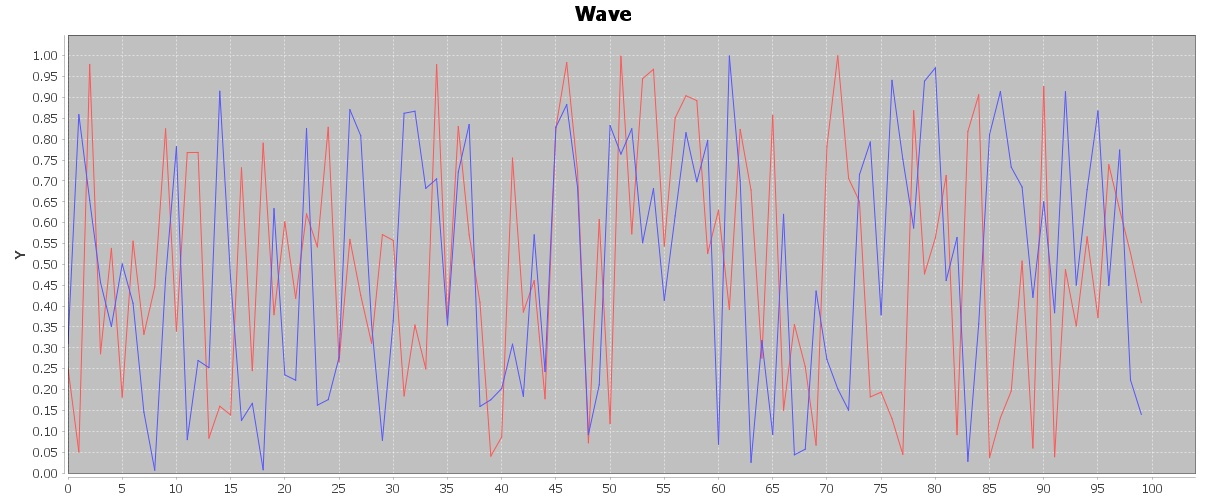
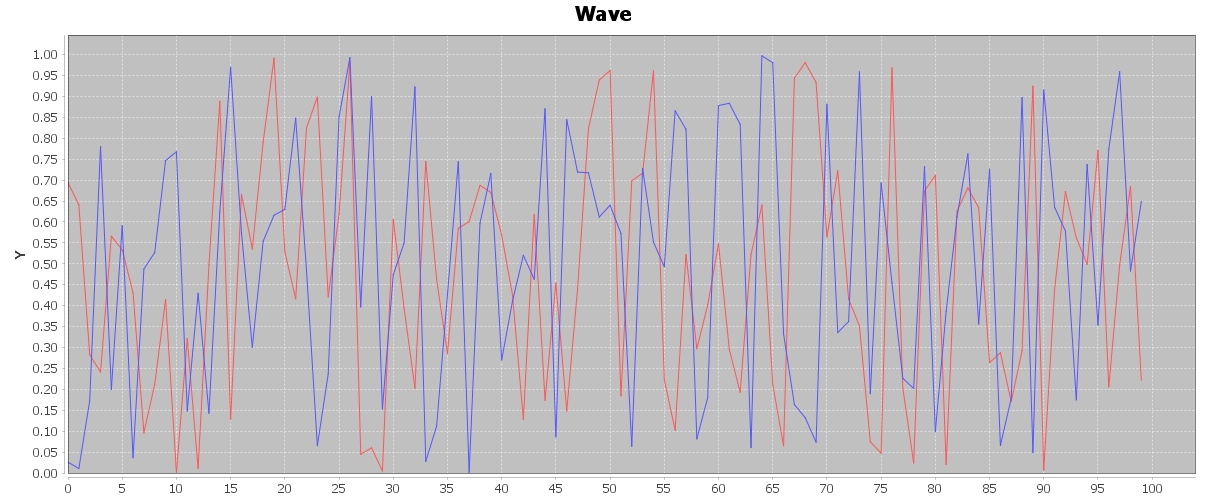
chart

diff --git a/src/processing/frame/Volume.java b/src/processing/frame/Volume.java
@@ -47,11 +47,13 @@ public class Volume {
 
 	public static void main(String args[]) {
 		System.out.println("test volume");
-		String filename = "dataset\\sample\\2.wav";
+		String filename = "dataset\\standard\\1.wav";
 		final int WINDOWSIZE = 256;
 		final int OVERLAP = 128;
 		try {
+			String[] files = new String[3];
 			System.out.println("Getting frame vectors from " + filename);
+			files[0] = filename;
 			WavHeader header = WavHeader.getWavHeader(filename);
 			int[] audioBytes = ReadAudioFile.getSignal(filename, header.get_fmt().getBitsPerSample());
 			double[][] frames = Frame.getFrames(audioBytes, WINDOWSIZE, OVERLAP);
@@ -60,7 +62,10 @@ public class Volume {
 				// get vector for current frame
 				volume1[i] = volume2(frames[i]);
 			}
-			filename = "dataset\\sample\\3.wav";
+
+			filename = "dataset\\sample\\2.wav";
+			System.out.println("Getting frame vectors from " + filename);
+			files[1] = filename;
 			header = WavHeader.getWavHeader(filename);
 			audioBytes = ReadAudioFile.getSignal(filename, header.get_fmt().getBitsPerSample());
 			frames = Frame.getFrames(audioBytes, WINDOWSIZE, OVERLAP);
@@ -69,7 +74,20 @@ public class Volume {
 				// get vector for current frame
 				volume2[i] = volume2(frames[i]);
 			}
-			JFreeChartUtil.createLineChart(volume1, volume2, "output/volume test.jpg");
+
+			filename = "dataset\\sample\\3.wav";
+			System.out.println("Getting frame vectors from " + filename);
+			files[2] = filename;
+			header = WavHeader.getWavHeader(filename);
+			audioBytes = ReadAudioFile.getSignal(filename, header.get_fmt().getBitsPerSample());
+			frames = Frame.getFrames(audioBytes, WINDOWSIZE, OVERLAP);
+			double[] volume3 = new double[frames.length];
+			for (int i = 0; i < frames.length; i++) {
+				// get vector for current frame
+				volume3[i] = volume2(frames[i]);
+			}
+
+			JFreeChartUtil.createLineChart("output/volume test.jpg", files, volume1, volume2, volume3);
 
 		} catch (Exception e) {
 			e.printStackTrace();

diff --git a/src/processing/frame/ACF.java b/src/processing/frame/ACF.java
@@ -133,7 +133,7 @@ public class ACF {
 		double[] sig = new double[framesize];
 		for (int i = 0; i < framesize; i++)
 			sig[i] = audios[index1 + i];
-		JFreeChartUtil.createLineChart(sig, "output/acf.jpg");
+		JFreeChartUtil.createLineChart("output/acf.jpg", new String[] { "discrete-time signal" }, sig);
 		int acf = acf(sig);
 		System.out.println(acf);
 	}
